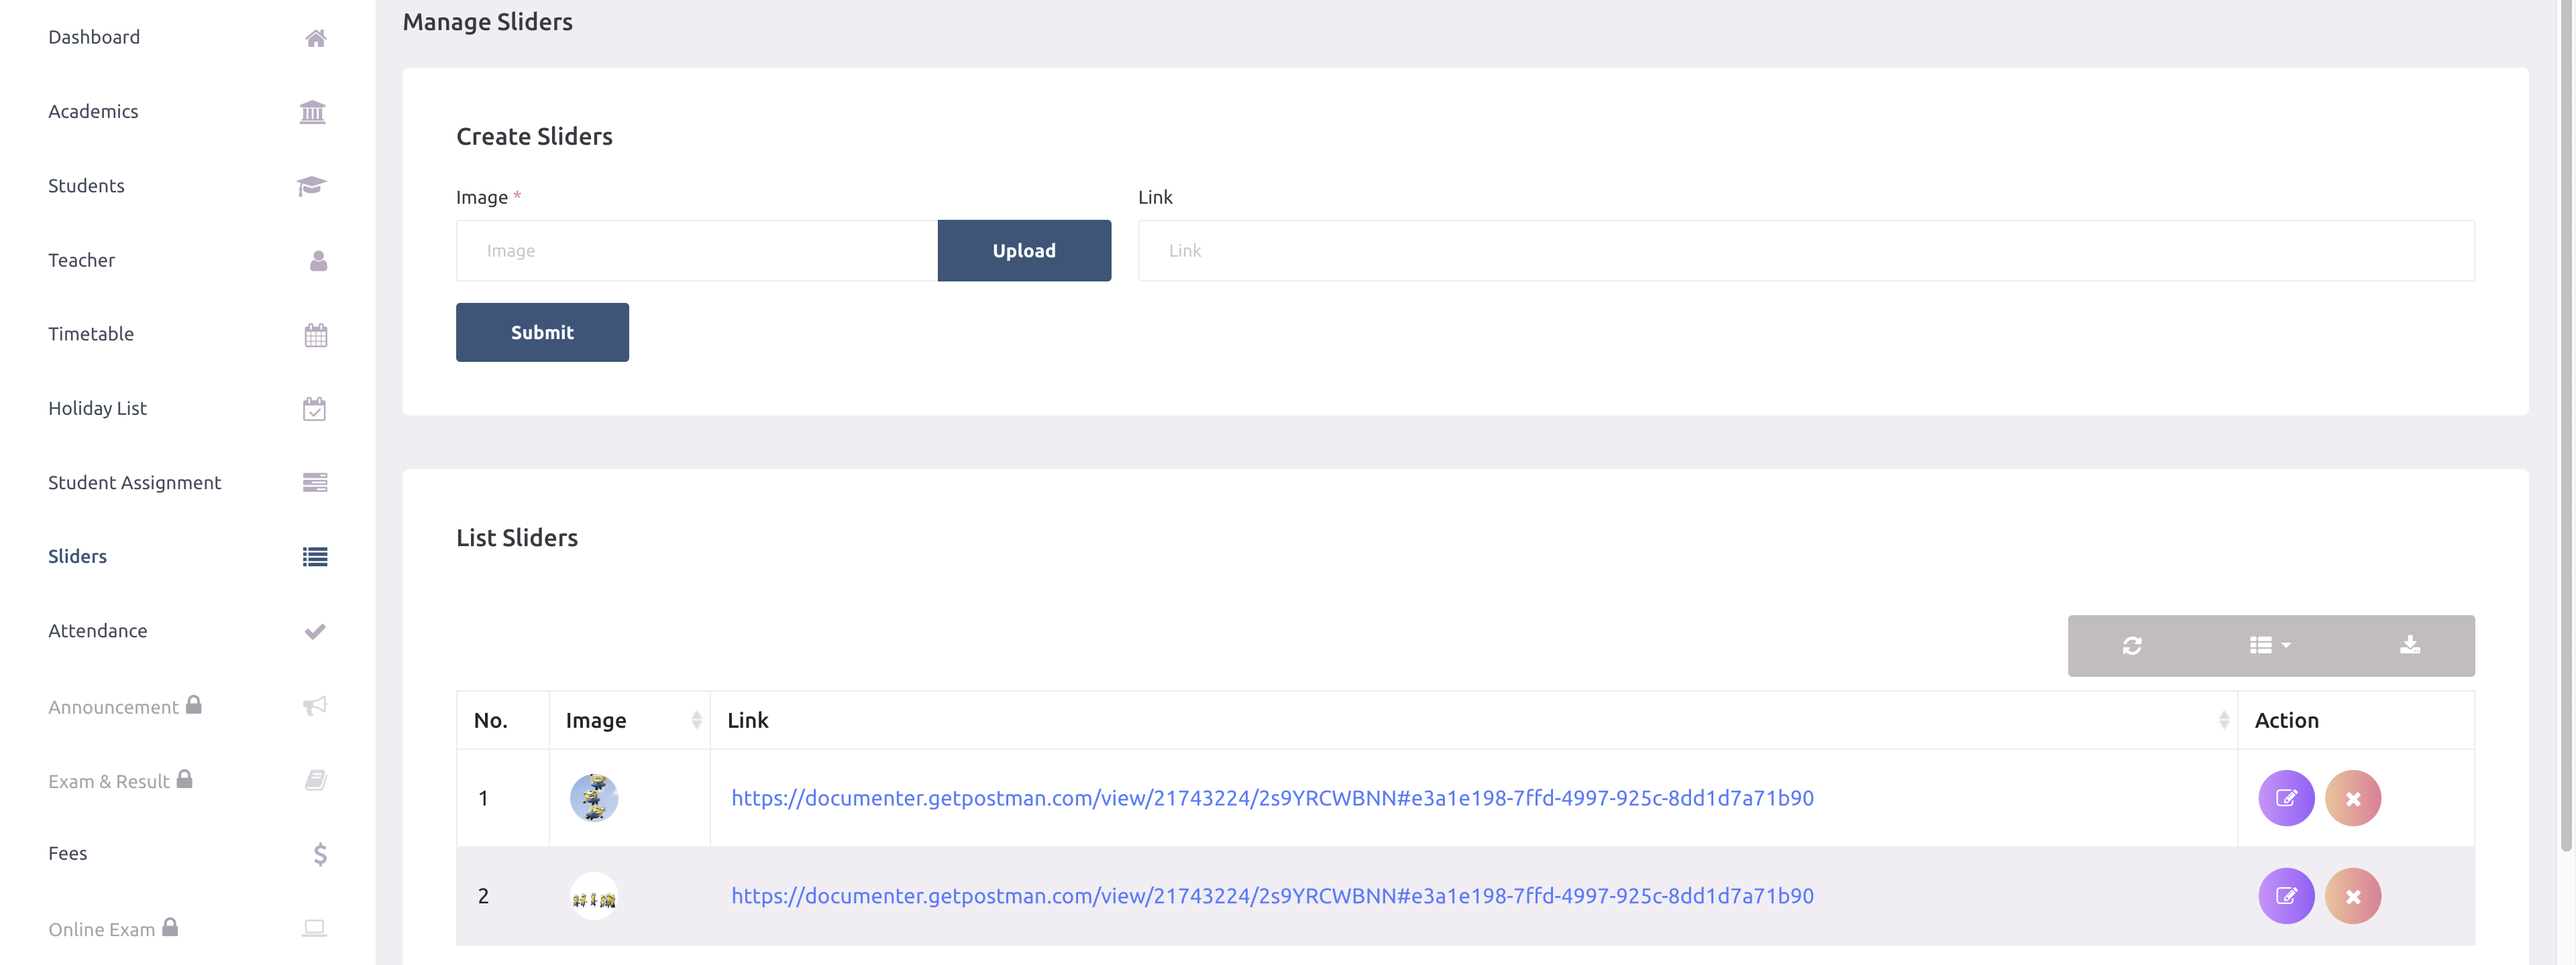
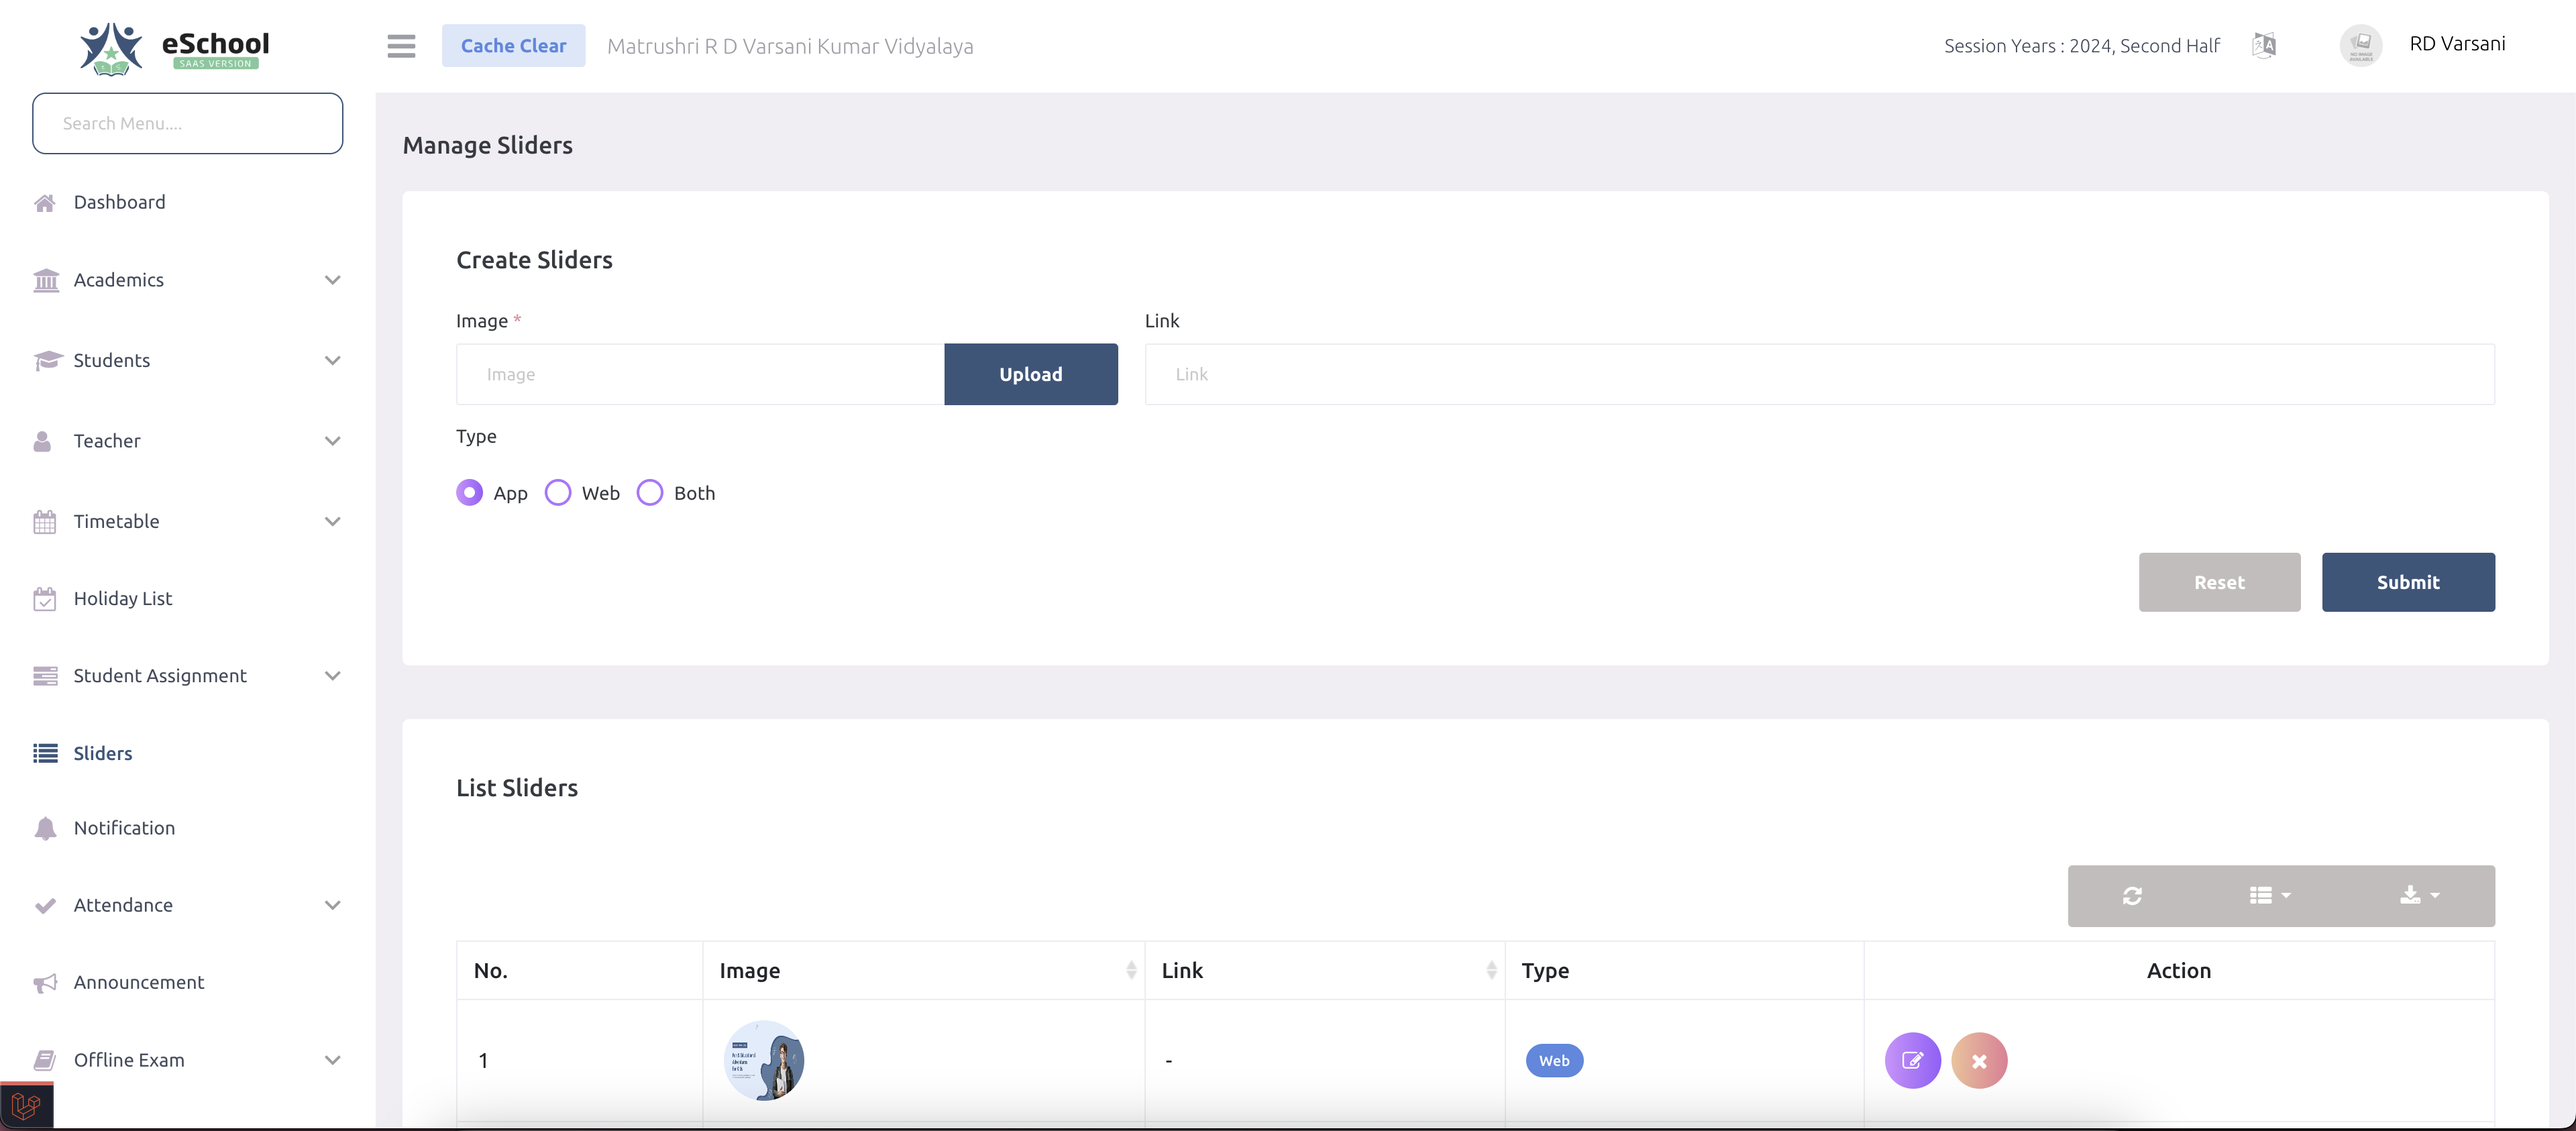
updated the sliders

diff --git a/index.html b/index.html
@@ -1023,7 +1023,7 @@
                     <li>
                         <h2>
                             School admin can manage sliders here. Sliders will be shown in the parent/student
-                            mobile app.
+                            mobile app and school website.
                         </h2>
                     </li>
                     <br />
